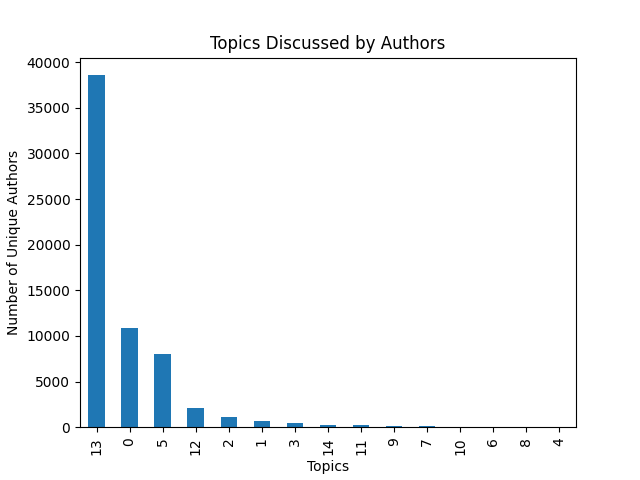
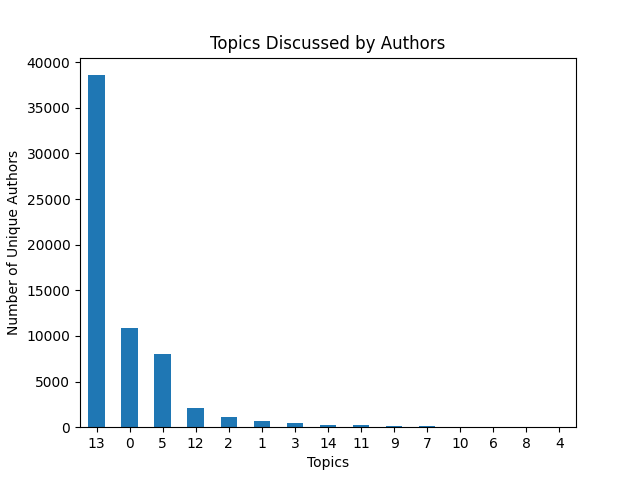
move sentiment csvs to csv_data folder and finished csv data plotting

diff --git a/topic_modelling/topic_sentiment_analysis.py b/topic_modelling/topic_sentiment_analysis.py
@@ -1,7 +1,6 @@
 import ast
 import collections
 import os
-import re
 
 import matplotlib.pyplot as plt
 import numpy as np
@@ -31,36 +30,28 @@ def get_author_topic_distribution(df):
 def get_comment_topic_distribution(df):
     # (x, y) = {'topic': number of comments}
     # x = topic, y = number of comments
-    topic_comments_dict = {}
+    topic_comments_dict = collections.defaultdict(lambda: collections.defaultdict(int))
     for index, row in df.iterrows():
-        # TODO: Remove regex stuff
-        topic = re.split(',', str(row['topic']))[0][1:]
-        sentiment = re.split(', |\'', str(row['sentiment']))[1]
-        if topic != "an":  # filter out "Nan" topics
-            if topic in topic_comments_dict:
-                topic_comments_dict[topic][sentiment] += 1
-                topic_comments_dict[topic]["total"] += 1
-            else:
-                if sentiment == "pos":
-                    topic_comments_dict[topic] = {"pos": 1, "neu": 0, "neg": 0, "total": 1}
-                elif sentiment == "neu":
-                    topic_comments_dict[topic] = {"pos": 0, "neu": 1, "neg": 0, "total": 1}
-                else:
-                    topic_comments_dict[topic] = {"pos": 0, "neu": 0, "neg": 1, "total": 1}
-
-    # write number of comments to stats file
-    num_comments = 0
-    for x in list(topic_comments_dict.values()):
-        num_comments += x["total"]
-    f = open("comments_stats.txt", "a")
-    f.write(f"\n# of comments with topic: {num_comments}")
-    f.close()
+        topic = row['topic']
+        sentiment = row['sentiment'][0]
+        topic_comments_dict[topic][sentiment] += 1
+        topic_comments_dict[topic]["total"] += 1
 
     return topic_comments_dict
 
 
+def save_comments_stats(topic_comments_dict, filename):
+    # write number of comments to stats file
+    num_comments = sum(score['total'] for score in topic_comments_dict.values())
+    # TODO: change this "a" to something that won't continuously append everytime we run the
+    #  function but not overwrite the file
+    f = open(filename, "a")
+    f.write(f"\n# of comments with topic: {num_comments}")
+    f.close()
+
+
 def plot_distribution(data, title, xlabel, ylabel, file_name):
-    data.plot(x=xlabel, y=ylabel, kind="bar", title=title, xlabel=xlabel, ylabel=ylabel, legend=False)
+    data.plot(x=xlabel, y=ylabel, kind="bar", title=title, xlabel=xlabel, ylabel=ylabel, legend=False, rot=0)
     plt.savefig(file_name)
     plt.clf()
     return
@@ -82,11 +73,6 @@ def plot_sent_distribution(x, y_pos, y_neu, y_neg, title, xlabel, ylabel, file_n
     return
 
 
-# def filter_topics(row):
-
-
-# TODO: Refactor this function/remove regex stuff after re-formatting processed_documents.csv
-# TODO: author <-> topic, sentiment
 def get_author_topic_sentiment(df):
     authors = get_unique_authors(df)
     unique_authors = filter_authors(authors)
@@ -126,34 +112,42 @@ if __name__ == "__main__":
     topic_authors_df = topic_authors_df.sort_values("Number of Unique Authors", ascending=False)
 
     # print(topic_authors_df)
-    # # plot author vs topic distribution
+    # plot author vs topic distribution
     plot_distribution(topic_authors_df, "Topics Discussed by Authors", "Topics", "Number of Unique Authors",
                       os.path.join(ROOT_DIR, "graphs", "topic_authors.png"))
 
-    # # comment vs topic distribution
-    # topic_comments_dict = get_comment_topic_distribution(df)
+    # comment vs topic distribution
+    topic_comments_dict = get_comment_topic_distribution(df)
+    # save_comments_stats(topic_comments_dict, os.path.join(ROOT_DIR, "comments_stats.txt"))
+    topic_comments_dict_x_axis = list(topic_comments_dict.keys())
 
-    # topic_comments_dict_x_axis = list(topic_comments_dict.keys())
+    # without sentiment
+    total_topic_comments_dict_y_axis = [x["total"] for x in list(topic_comments_dict.values())]
+    # with sentiment
+    sent_pos_topic_comments_dict_y_axis = [x["pos"] for x in list(topic_comments_dict.values())]
+    sent_neu_topic_comments_dict_y_axis = [x["neu"] for x in list(topic_comments_dict.values())]
+    sent_neg_topic_comments_dict_y_axis = [x["neg"] for x in list(topic_comments_dict.values())]
+    # convert to dataframe to sort by total number of comments
+    topic_comments_df = pd.DataFrame(
+        {"Topics": topic_comments_dict_x_axis, "Number of Comments": total_topic_comments_dict_y_axis,
+         "Positive": sent_pos_topic_comments_dict_y_axis, "Neutral": sent_neu_topic_comments_dict_y_axis,
+         "Negative": sent_neg_topic_comments_dict_y_axis})
+    topic_comments_df = topic_comments_df.sort_values("Number of Comments", ascending=False)
 
-    # # without sentiment
-    # total_topic_comments_dict_y_axis = [x["total"] for x in list(topic_comments_dict.values())]
-    # # with sentiment
-    # sent_pos_topic_comments_dict_y_axis = [x["pos"] for x in list(topic_comments_dict.values())]
-    # sent_neu_topic_comments_dict_y_axis = [x["neu"] for x in list(topic_comments_dict.values())]
-    # sent_neg_topic_comments_dict_y_axis = [x["neg"] for x in list(topic_comments_dict.values())]
-    # # convert to dataframe to sort by total number of comments
-    # topic_comments_df = pd.DataFrame({"Topics": topic_comments_dict_x_axis, "Number of Comments": total_topic_comments_dict_y_axis, "Positive": sent_pos_topic_comments_dict_y_axis, "Neutral": sent_neu_topic_comments_dict_y_axis, "Negative": sent_neg_topic_comments_dict_y_axis})
-    # topic_comments_df= topic_comments_df.sort_values("Number of Comments", ascending=False)
-
-    # # plot comment vs topic distribution without sentiment
-    # plot_distribution(topic_comments_df, "Topics Discussed in Comments", "Topics", "Number of Comments", "graphs/topic_comments.png")
-    # # plot comment vs topic distribution with sentiment
-    # plot_sent_distribution(topic_comments_df["Topics"].tolist(), topic_comments_df["Positive"].tolist(), topic_comments_df["Neutral"].tolist(), topic_comments_df["Negative"].tolist(), "Sentiments Towards Topics Discussed in Comments", "Topics", "Number of Comments", "graphs/topic_comments_sentiment.png")
+    # plot comment vs topic distribution without sentiment
+    plot_distribution(topic_comments_df, "Topics Discussed in Comments", "Topics", "Number of Comments",
+                      os.path.join(ROOT_DIR, "graphs", "topic_comments.png"))
+    # plot comment vs topic distribution with sentiment
+    plot_sent_distribution(topic_comments_df["Topics"].tolist(), topic_comments_df["Positive"].tolist(),
+                           topic_comments_df["Neutral"].tolist(), topic_comments_df["Negative"].tolist(),
+                           "Sentiments Towards Topics Discussed in Comments", "Topics", "Number of Comments",
+                           os.path.join(ROOT_DIR, "graphs", "topic_comments_sentiment.png"))
 
     # create author to topic bipartite graph
-    # author_topic_sentiment_df = get_author_topic_sentiment(df)
+    author_topic_sentiment_df = get_author_topic_sentiment(df)
 
     # write dataframes to files
-    # topic_authors_df.to_csv("topic_authors_distribution.csv", index=False)
-    # topic_comments_df.to_csv("topic_comments_distribution.csv", index=False)
-    # author_topic_sentiment_df.to_csv("author_topic_sentiment.csv", index=False)
+    csv_folder = "csv_data"
+    topic_authors_df.to_csv(os.path.join(csv_folder, "topic_authors_distribution.csv", index=False))
+    topic_comments_df.to_csv(os.path.join(csv_folder, "topic_comments_distribution.csv", index=False))
+    author_topic_sentiment_df.to_csv(os.path.join(csv_folder, "author_topic_sentiment.csv", index=False))
